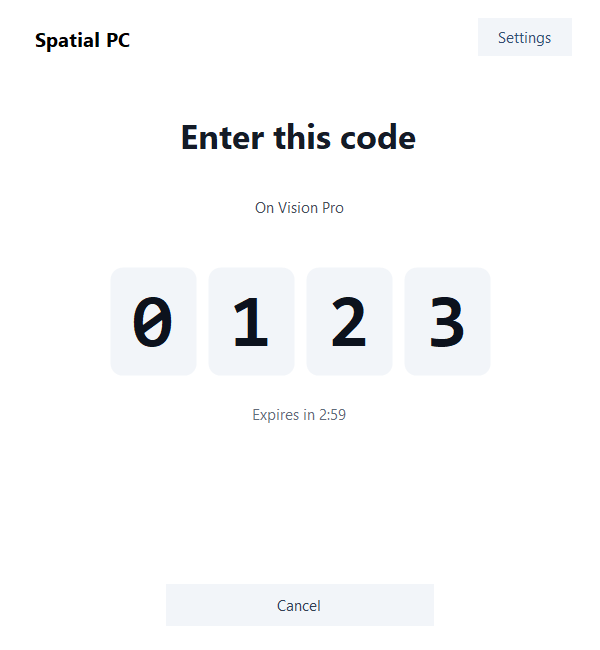
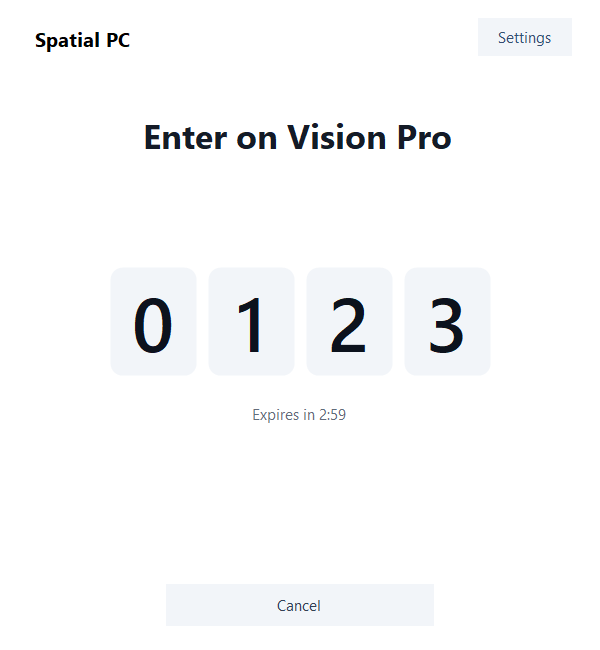
Remove redundant wizard copy and refine pairing digits

diff --git a/windows/ui/HostWindow.cs b/windows/ui/HostWindow.cs
@@ -92,9 +92,9 @@ internal sealed class HostWindow : Form {
     }
     void Render(){
         var page=new WizardPage();primaryAction="";secondaryAction="";
-        if(focusBitmap!=null){page.Title="Scan with Vision Pro";page.Detail="Apple system pairing";page.Qr=focusBitmap;page.Sensitive=true;page.Secondary="Cancel";secondaryAction="stopFocus";}
+        if(focusBitmap!=null){page.Title="Scan with Vision Pro";page.Qr=focusBitmap;page.Sensitive=true;page.Secondary="Cancel";secondaryAction="stopFocus";}
         else if(requestId!=null){page.Title="Allow this device?";page.Detail=requestName+"\nView and control this PC.";page.Sensitive=true;page.Primary="Allow this device";primaryAction="allow";page.Secondary="Deny";secondaryAction="deny";}
-        else if(pairCode.Length!=0){page.Title="Enter this code";page.Detail="On Vision Pro";page.Code=pairCode;page.Sensitive=true;int remaining=Math.Max(0,(int)(pairingUntil-DateTime.UtcNow).TotalSeconds);page.Footnote=attemptNote.Length!=0?attemptNote:"Expires in "+remaining/60+":"+(remaining%60).ToString("00");page.Secondary="Cancel";secondaryAction="cancel";}
+        else if(pairCode.Length!=0){page.Title="Enter on Vision Pro";page.Code=pairCode;page.Sensitive=true;int remaining=Math.Max(0,(int)(pairingUntil-DateTime.UtcNow).TotalSeconds);page.Footnote=attemptNote.Length!=0?attemptNote:"Expires in "+remaining/60+":"+(remaining%60).ToString("00");page.Secondary="Cancel";secondaryAction="cancel";}
         else if(error.Length!=0){page.Title="Couldn’t finish";page.Detail=error;page.Primary=worker!=null&&worker.HasExited?"Quit Spatial PC":"Back";primaryAction=page.Primary=="Back"?"back":"quit";}
         else if(pending.Length!=0){page.Title=pending=="approve"?"Adding device…":pending=="pair"?"Getting code…":pending=="cancel"?"Canceling…":pending=="setup"?"Setting up…":"Enabling access…";page.Busy=true;if(pending=="approve"||pending=="pair"){page.Sensitive=true;page.Secondary="Cancel";secondaryAction="cancel";}}
         else if(pairedDone){page.Title="Device added";page.Detail="Ready on Vision Pro";page.Primary="Done";primaryAction="done";}

diff --git a/windows/ui/WizardView.cs b/windows/ui/WizardView.cs
@@ -52,7 +52,7 @@ internal sealed class WizardView : UserControl {
         page.BackColor=Color.White;Controls.Add(page);
         foreach(var label in new[]{Title,Detail,Code,Footnote}) { label.TextAlign=ContentAlignment.MiddleCenter;label.UseMnemonic=false;page.Controls.Add(label); }
         Title.Font=new Font("Segoe UI",25,FontStyle.Bold);Title.ForeColor=Color.FromArgb(20,27,39);
-        Detail.ForeColor=Color.FromArgb(69,77,90);Code.Font=new Font("Consolas",56,FontStyle.Bold);Code.ForeColor=Color.FromArgb(12,18,29);
+        Detail.ForeColor=Color.FromArgb(69,77,90);Code.Font=new Font("Segoe UI Semibold",56,FontStyle.Regular);Code.ForeColor=Color.FromArgb(12,18,29);
         Code.AccessibleName="Four-digit pairing code";Footnote.ForeColor=Color.FromArgb(99,108,122);
         Qr.SizeMode=PictureBoxSizeMode.Zoom;Qr.BackColor=Color.White;Qr.AccessibleName="Apple system pairing QR code";page.Controls.Add(Qr);
         Style(Primary,true);Style(Secondary,false);page.Controls.Add(Primary);page.Controls.Add(Secondary);
